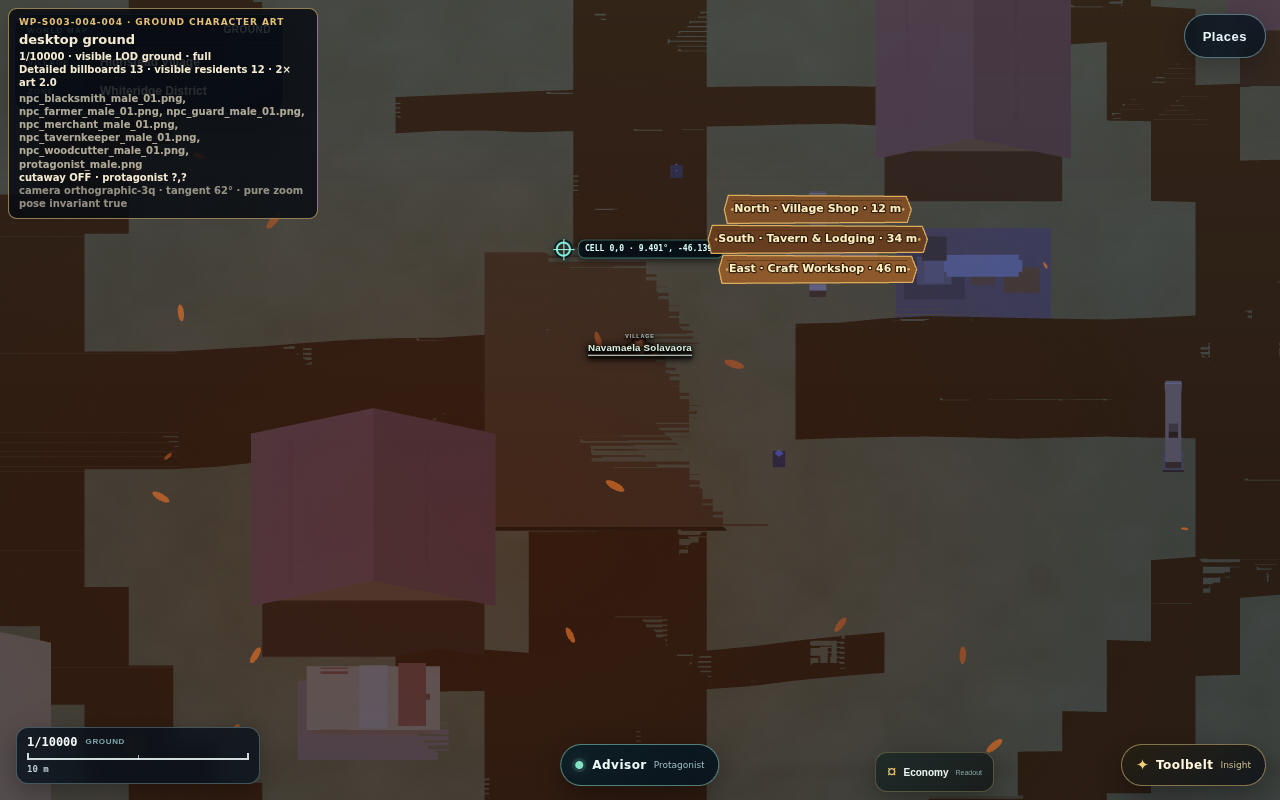
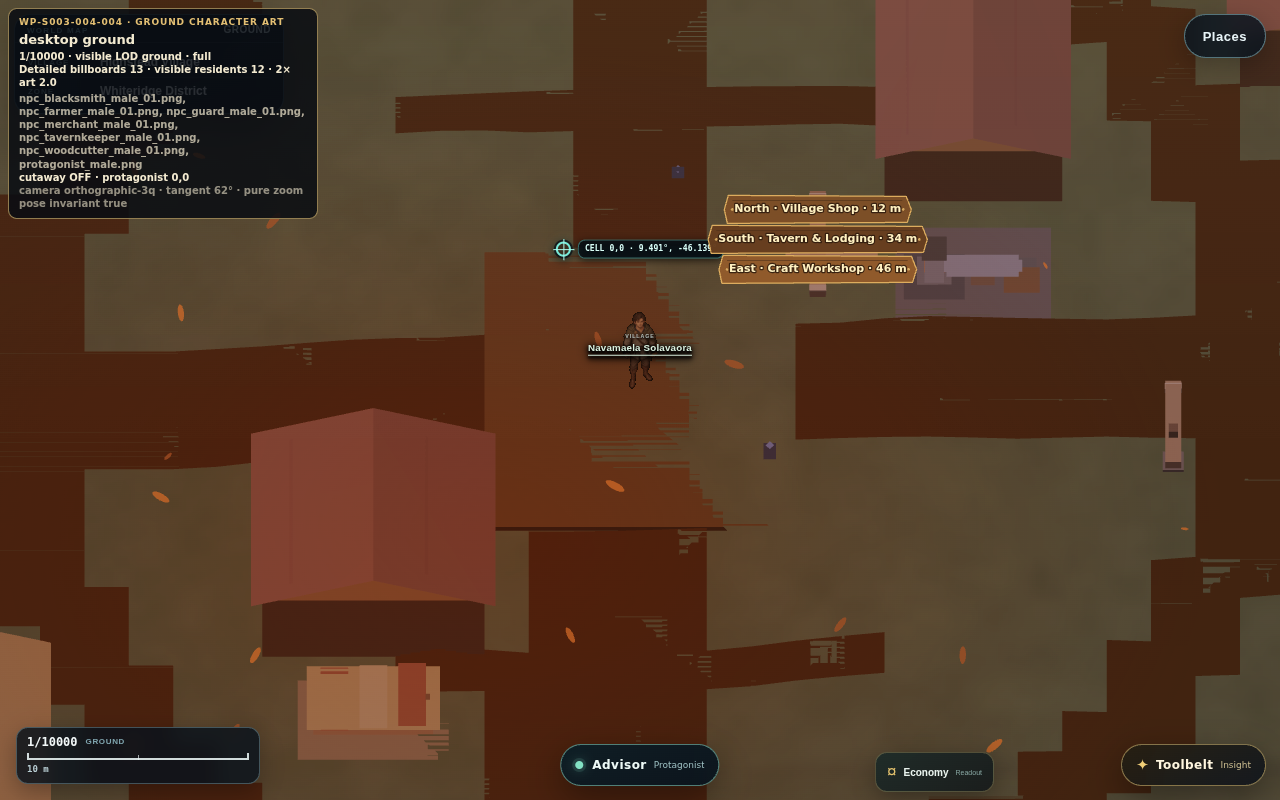
Copilot hourly agent update

diff --git a/scripts/world/planet-stage.js b/scripts/world/planet-stage.js
@@ -4033,12 +4033,14 @@ function staticSettlementRevealTierForIndex(index){
 }
 function settlementRevealTierForScalar(value=zoomState.scalar){
   const scalar=clamp(Number(value)||0,ZOOM_MIN,ZOOM_MAX);
+  const requestedLevel=String(localResources.requestedLevel||LOCAL_DETAIL_LEVELS[requestedLodIndexForZoom(scalar)]?.id||"");
   const rawIndex=rawLodIndexForZoom(scalar),level=LOCAL_DETAIL_LEVELS[rawIndex]||LOCAL_DETAIL_LEVELS[0];
   // Semantic/local-world eligibility follows the requested physical scale, not
   // a retained terrain resource. A ready close-detail parent may remain visible
   // temporarily to guarantee terrain coverage, but it must never keep village
   // props, residents or decorative layers alive after zoom has returned to a
   // regional/strategic scale.
+  if(requestedLevel==="ground"||level?.id==="ground")return "full";
   if(level?.staticWorld){
     const staticTier=staticSettlementRevealTierForIndex(rawIndex);
     if(staticTier!=="none")return staticTier;
@@ -4047,12 +4049,13 @@ function settlementRevealTierForScalar(value=zoomState.scalar){
 }
 function localWorldPresentationEligibility(value=zoomState.scalar){
   const scalar=clamp(Number(value)||0,ZOOM_MIN,ZOOM_MAX),revealTier=settlementRevealTierForScalar(scalar);
+  const requestedLevel=String(localResources.requestedLevel||LOCAL_DETAIL_LEVELS[requestedLodIndexForZoom(scalar)]?.id||"");
   const rawIndex=rawLodIndexForZoom(scalar),level=LOCAL_DETAIL_LEVELS[rawIndex]||LOCAL_DETAIL_LEVELS[0];
   // Retained parent resources are terrain-coverage fallbacks only. Presentation
   // eligibility is determined by the requested scale so stale local roots and
   // seasonal accents cannot survive at regional/strategic map scales.
-  const staticWorldVisible=Boolean(level?.staticWorld);
-  return Object.freeze({visible:revealTier!=="none"||staticWorldVisible,revealTier,rawLevelIndex:rawIndex,rawLevelId:level?.id||null,rawStaticWorld:staticWorldVisible});
+  const staticWorldVisible=Boolean(level?.staticWorld)||requestedLevel==="ground";
+  return Object.freeze({visible:revealTier!=="none"||staticWorldVisible,revealTier,rawLevelIndex:rawIndex,rawLevelId:requestedLevel==="ground"?"ground":level?.id||null,rawStaticWorld:staticWorldVisible});
 }
 function applyLocalWorldPresentationVisibility(){
   const gate=localWorldPresentationEligibility(),nodes=[localStaticRoot,localNpcRoot,localCrowdRoot,localBuildingActivityRoot,localCampaignWearMesh,localFaunaRoot,environmentalReactionRoot,localWayfindingEntity].filter(Boolean);
@@ -4826,8 +4829,10 @@ function groundCharacterTextureUrl(profession){
   return GROUND_CHARACTER_PROFESSION_TEXTURES[String(profession||"")]||GROUND_CHARACTER_FALLBACK_TEXTURE;
 }
 function groundCharacterLayerEligible(){
+  const requestedLevel=String(localResources.requestedLevel||LOCAL_DETAIL_LEVELS[requestedLodIndexForZoom(zoomState.scalar)]?.id||"");
   const rawIndex=rawLodIndexForZoom(zoomState.scalar),rawLevel=LOCAL_DETAIL_LEVELS[rawIndex]||LOCAL_DETAIL_LEVELS[0];
-  return Boolean(localWorldPresentationEligibility().visible&&String(rawLevel?.id||"")==="ground"&&displayResource&&String(displayResource.dims?.levelId||"")==="ground"&&String(localNpcContext?.tier||"")==="full"&&tangentPatch?.enabled);
+  const levelId=String(displayResource?.dims?.levelId||requestedLevel||rawLevel?.id||"");
+  return Boolean(localWorldPresentationEligibility().visible&&String(rawLevel?.id||requestedLevel||"")==="ground"&&levelId==="ground"&&String(localNpcContext?.tier||"")==="full"&&tangentPatch?.enabled);
 }
 function scheduleGroundCharacterRefresh(){
   if(groundCharacterRefreshScheduled||groundCharacterPendingLoads>0||!groundCharacterLayerEligible()||!localNpcContext)return;
